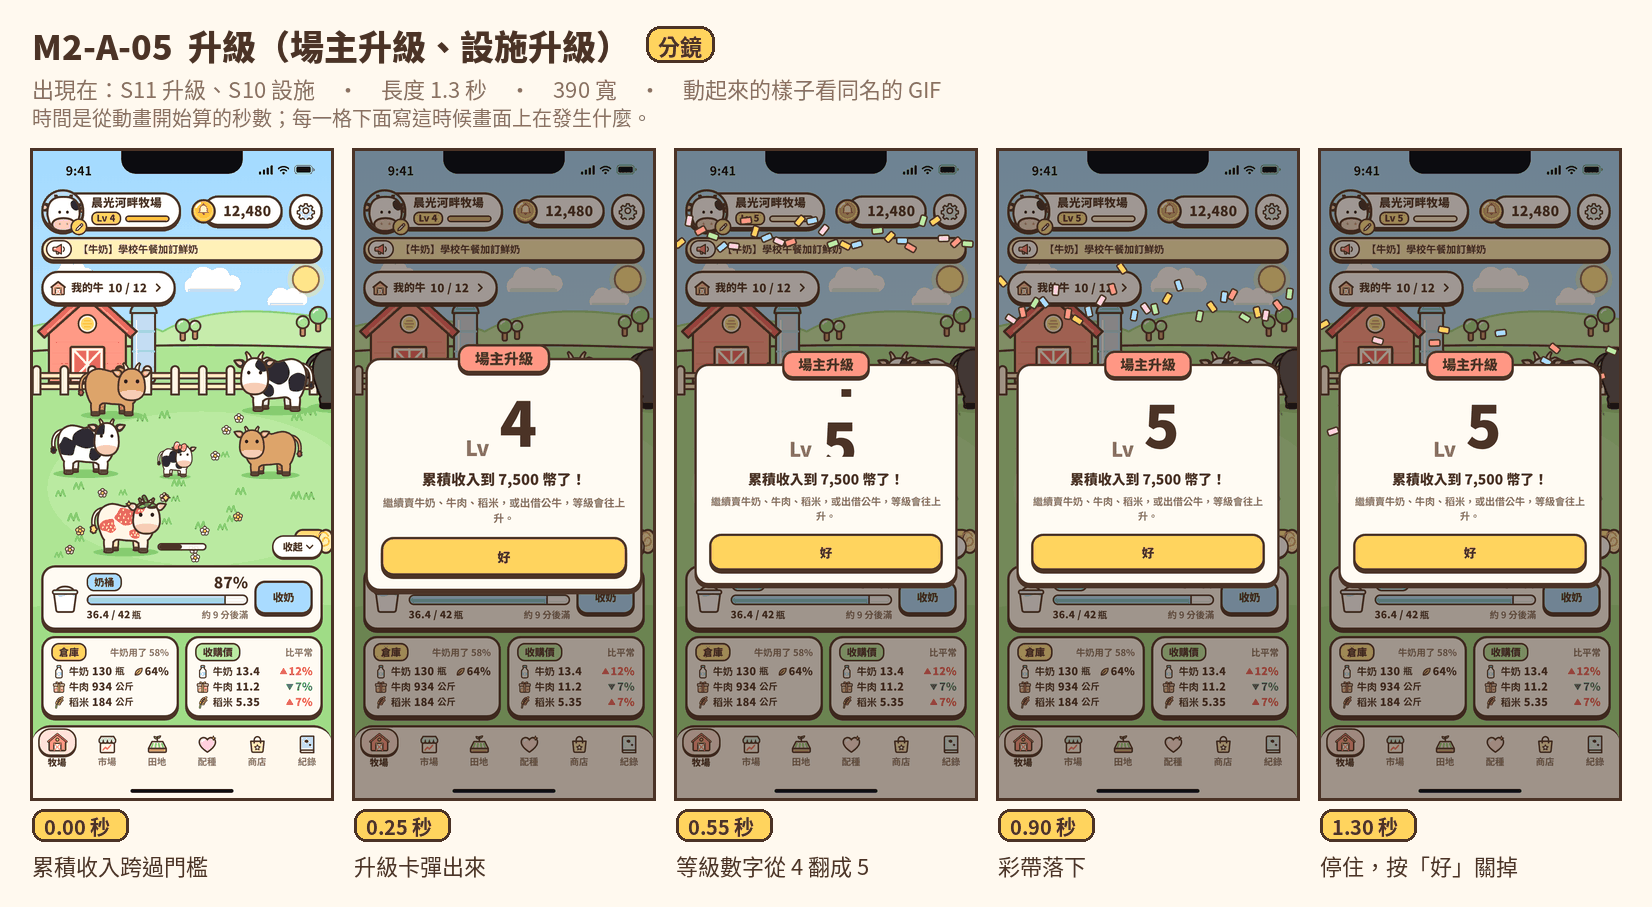
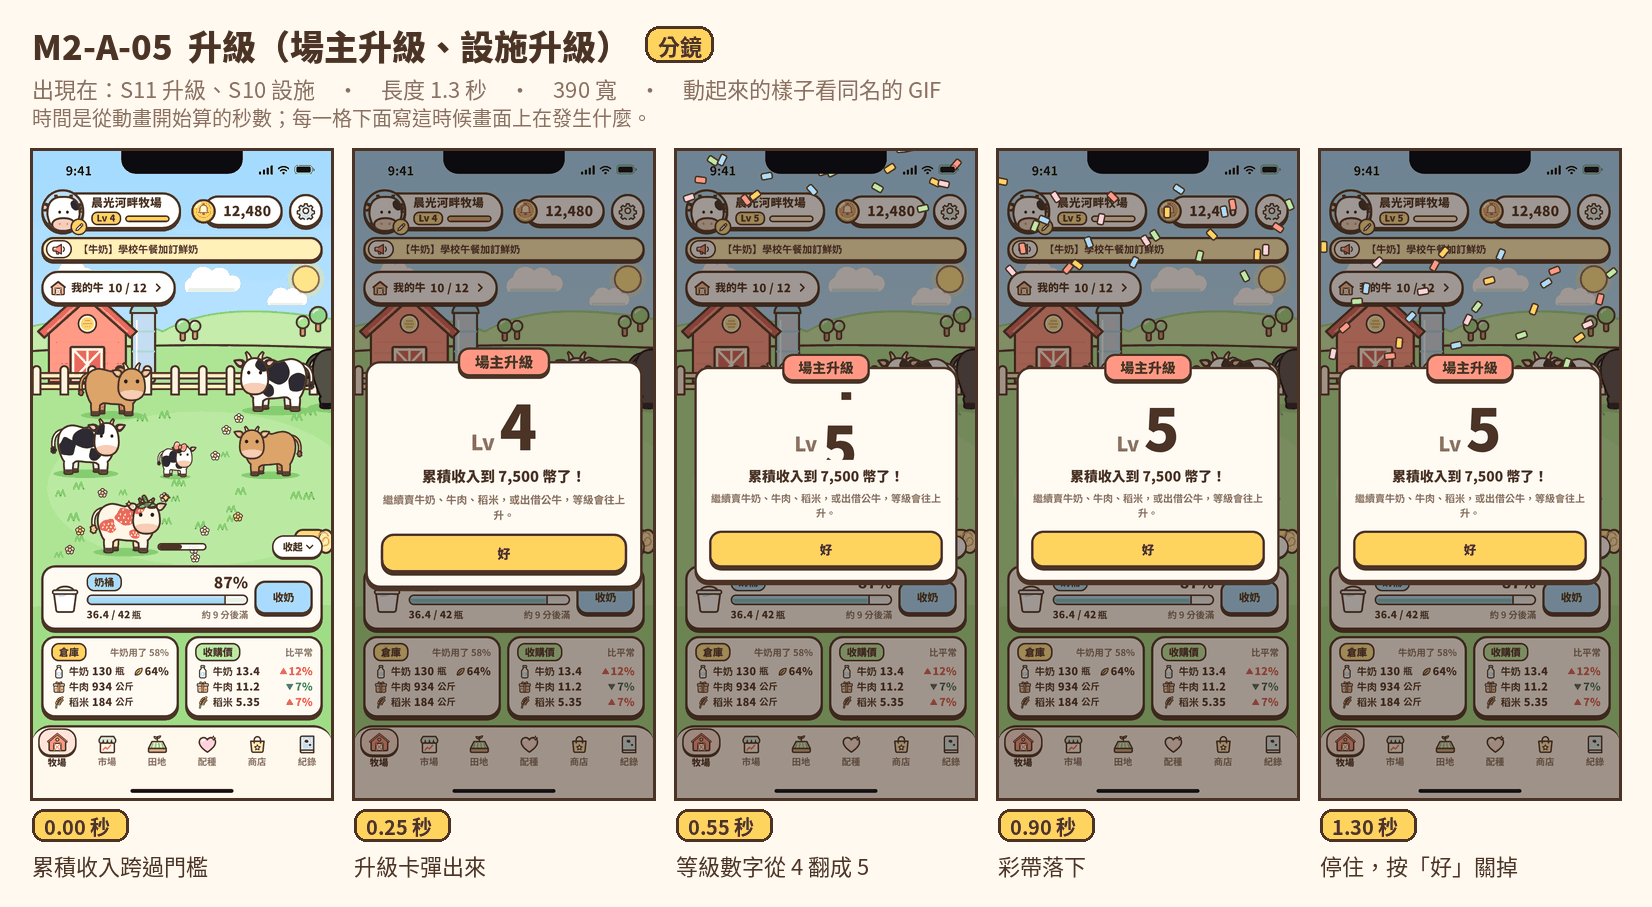
A-05、S11-07：重拍、合成（A-05 的 GIF、分鏡、減少動態、S11 總覽；新增 S11-07 兩張）、量測摘要；框的選擇器改成 .lv-big .lv-roll（不然被「Lv」的 26 px 蓋過、框撐高到 110）；翻完把舊數字藏起來（量測不再算成超出卡片）

diff --git a/design/m2/src/css/screens.css b/design/m2/src/css/screens.css
@@ -578,7 +578,8 @@
 .burst-hearts i { position: absolute; left: -11px; top: -11px; line-height: 0; opacity: 0; }
 /* A-05 等級數字往上翻：框裡放一個看不到的新數字（.size）撐出寬度和基線，「Lv」跟數字的基線對齊、兩位數也不會被切掉；
    用 clip-path 只切上下（overflow: hidden 會讓基線變成框的下緣，「Lv」掉低約 8；2026-10-08 cow-app 量到）。最後一格跟 S11-01 一樣 */
-.lv-roll { position: relative; display: inline-block; font-size: 76px; line-height: 88px; clip-path: inset(0 -24px); }
+/* 選擇器要寫 .lv-big .lv-roll：不然「Lv」那條 .lv-big span（26 px）會蓋過字級，框被撐高到 110 */
+.lv-big .lv-roll { position: relative; display: inline-block; font-size: 76px; line-height: 88px; clip-path: inset(0 -24px); }
 .lv-roll .size { visibility: hidden; }
 .lv-roll .old, .lv-roll .new { position: absolute; left: 0; right: 0; top: 0; text-align: center; }
 .lv-wrap .confetti i { position: absolute; top: -10%; }

diff --git a/design/m2/src/js/anims.js b/design/m2/src/js/anims.js
@@ -219,6 +219,7 @@ const A05 = {
     root.querySelector('.hud .lv').textContent = f >= 0.5 ? 'Lv 5' : 'Lv 4';
     root.querySelector('.hud .xp i').style.width = f >= 0.5 ? '0%' : '100%';
     root.querySelector('.lv-roll .old').style.transform = `translateY(${-f * 90}px)`;
+    root.querySelector('.lv-roll .old').style.visibility = f >= 1 ? 'hidden' : ''; // 翻完就藏起來（clip-path 已經切掉看不到，但量測會把它算成超出卡片）
     root.querySelector('.lv-roll .new').style.transform = `translateY(${(1 - f) * 90}px)`;
     // 彩紙從上面落下，最後停在 S11-01 的位置和角度（top = y%、rotate(r)，跟 s10.js 的 levelUp 一樣；2026-10-08 cow-app 量到以前停得比 S11-01 低約 100）
     [...root.querySelectorAll('.confetti i')].forEach((c, i) => {

diff --git a/design/m2/measure/summary-en.md b/design/m2/measure/summary-en.md
@@ -9,10 +9,10 @@
 
 | 寬度 | 狀態數 | 最小字級 | 有問題的狀態 | 橫向捲動 | 刻意截成「…」 | 要往下捲的狀態 |
 |---|---|---|---|---|---|---|
-| 430×932 | 221 | 12 px | 0 | 0 | 0 | 41 |
-| 390×844 | 221 | 12 px | 0 | 0 | 2 | 62 |
-| 360×800 | 221 | 12 px | 1 | 0 | 6 | 71 |
-| 320×568 | 221 | 12 px | 3 | 0 | 144 | 99 |
+| 430×932 | 222 | 12 px | 0 | 0 | 0 | 41 |
+| 390×844 | 222 | 12 px | 0 | 0 | 2 | 62 |
+| 360×800 | 222 | 12 px | 1 | 0 | 6 | 71 |
+| 320×568 | 222 | 12 px | 3 | 0 | 145 | 99 |
 
 ## 430×932
 

diff --git a/design/m2/measure/summary-th.md b/design/m2/measure/summary-th.md
@@ -9,10 +9,10 @@
 
 | 寬度 | 狀態數 | 最小字級 | 有問題的狀態 | 橫向捲動 | 刻意截成「…」 | 要往下捲的狀態 |
 |---|---|---|---|---|---|---|
-| 430×932 | 221 | 12 px | 0 | 0 | 0 | 41 |
-| 390×844 | 221 | 12 px | 0 | 0 | 2 | 53 |
-| 360×800 | 221 | 12 px | 2 | 0 | 4 | 70 |
-| 320×568 | 221 | 12 px | 3 | 0 | 144 | 97 |
+| 430×932 | 222 | 12 px | 0 | 0 | 0 | 41 |
+| 390×844 | 222 | 12 px | 0 | 0 | 2 | 53 |
+| 360×800 | 222 | 12 px | 2 | 0 | 4 | 70 |
+| 320×568 | 222 | 12 px | 3 | 0 | 145 | 97 |
 
 ## 430×932
 

diff --git a/design/m2/measure/summary.md b/design/m2/measure/summary.md
@@ -9,10 +9,10 @@
 
 | 寬度 | 狀態數 | 最小字級 | 有問題的狀態 | 橫向捲動 | 刻意截成「…」 | 要往下捲的狀態 |
 |---|---|---|---|---|---|---|
-| 430×932 | 225 | 12 px | 0 | 0 | 0 | 41 |
-| 390×844 | 225 | 12 px | 0 | 0 | 1 | 52 |
-| 360×800 | 225 | 12 px | 0 | 0 | 3 | 62 |
-| 320×568 | 225 | 12 px | 4 | 0 | 146 | 95 |
+| 430×932 | 226 | 12 px | 0 | 0 | 0 | 41 |
+| 390×844 | 226 | 12 px | 0 | 0 | 1 | 52 |
+| 360×800 | 226 | 12 px | 0 | 0 | 3 | 62 |
+| 320×568 | 226 | 12 px | 4 | 0 | 147 | 95 |
 
 ## 430×932
 
